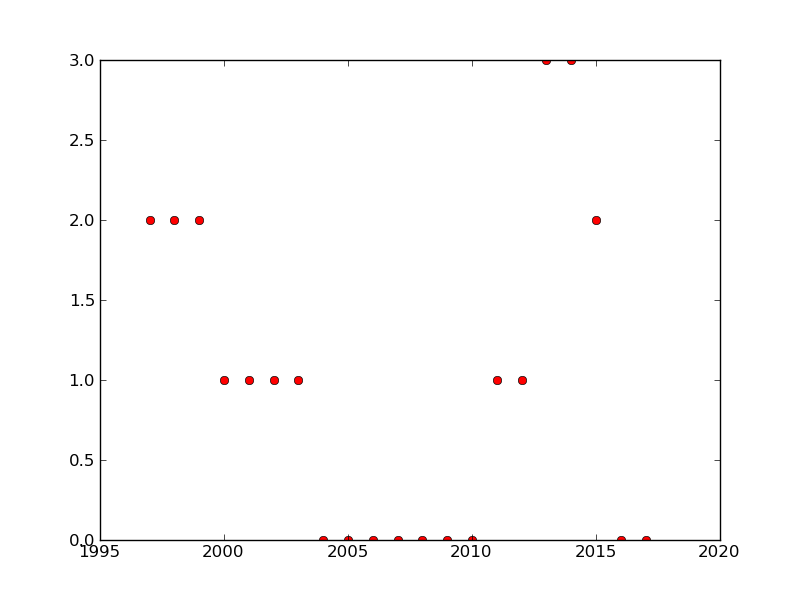
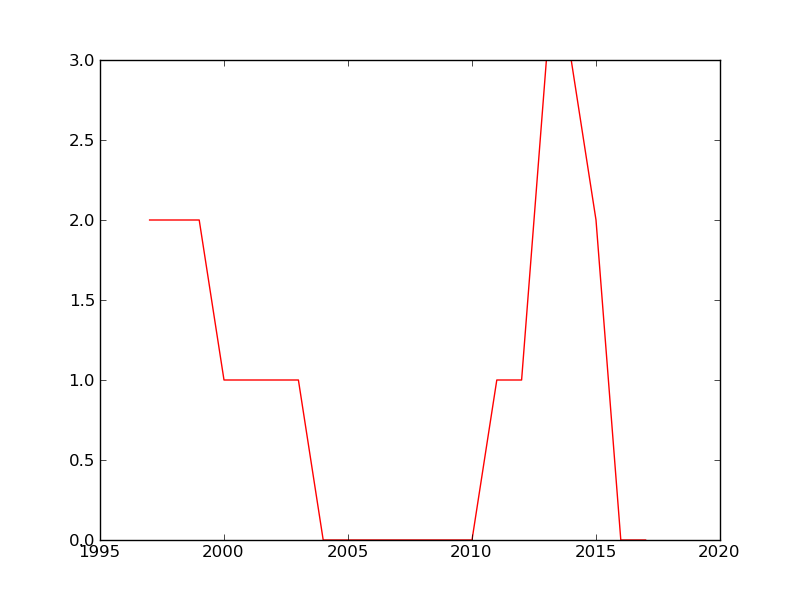
Add files via upload

diff --git a/mascotas.py b/mascotas.py
@@ -2,5 +2,5 @@ import numpy as np
 import pylab as pl
 x = [1997,1998,1999,2000,2001,2002,2003,2004,2005,2006,2007,2008,2009,2010,2011,2012,2013,2014,2015,2016,2017]
 y = [2   ,2   ,2   ,1   ,1   ,1   ,1   ,0   ,0   ,0   ,0   ,0   ,0   ,0   ,1   ,1   ,3   ,3   ,2   ,0   ,0]
-pl.plot(x, y, 'ro')
+pl.plot(x, y, 'r')
 pl.savefig('graficamascotas.png')
